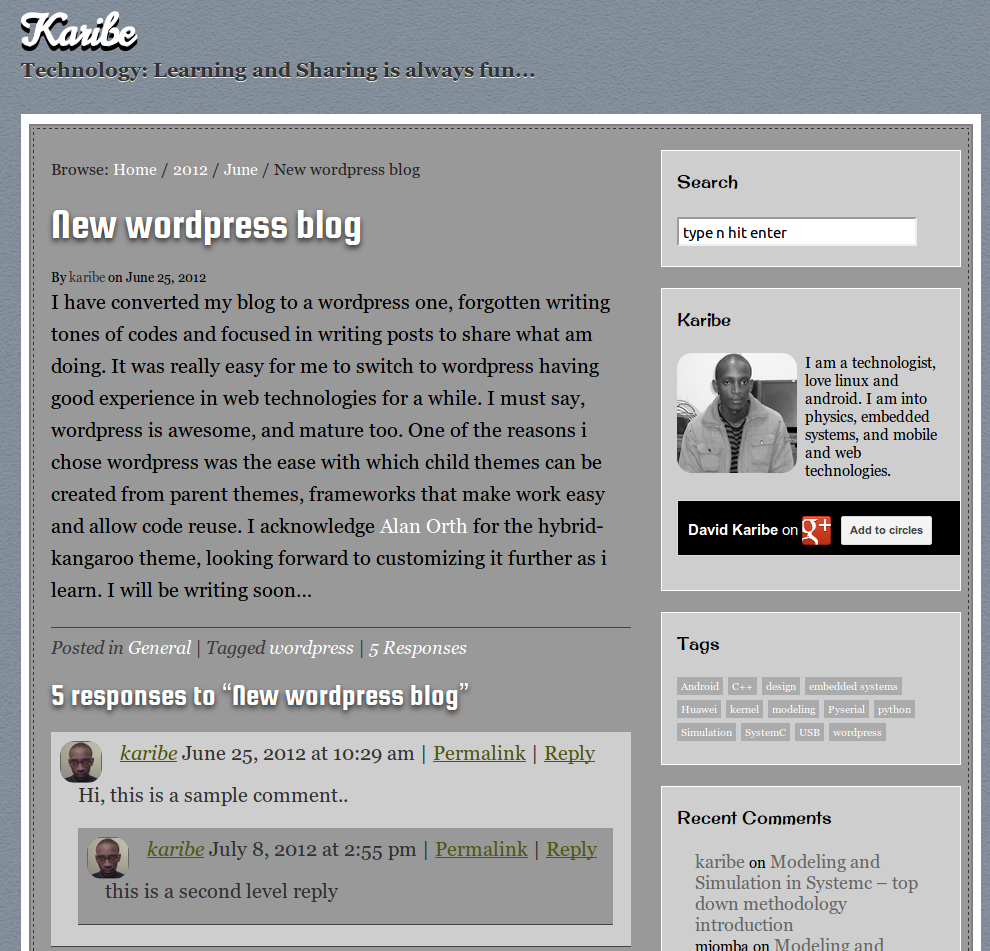
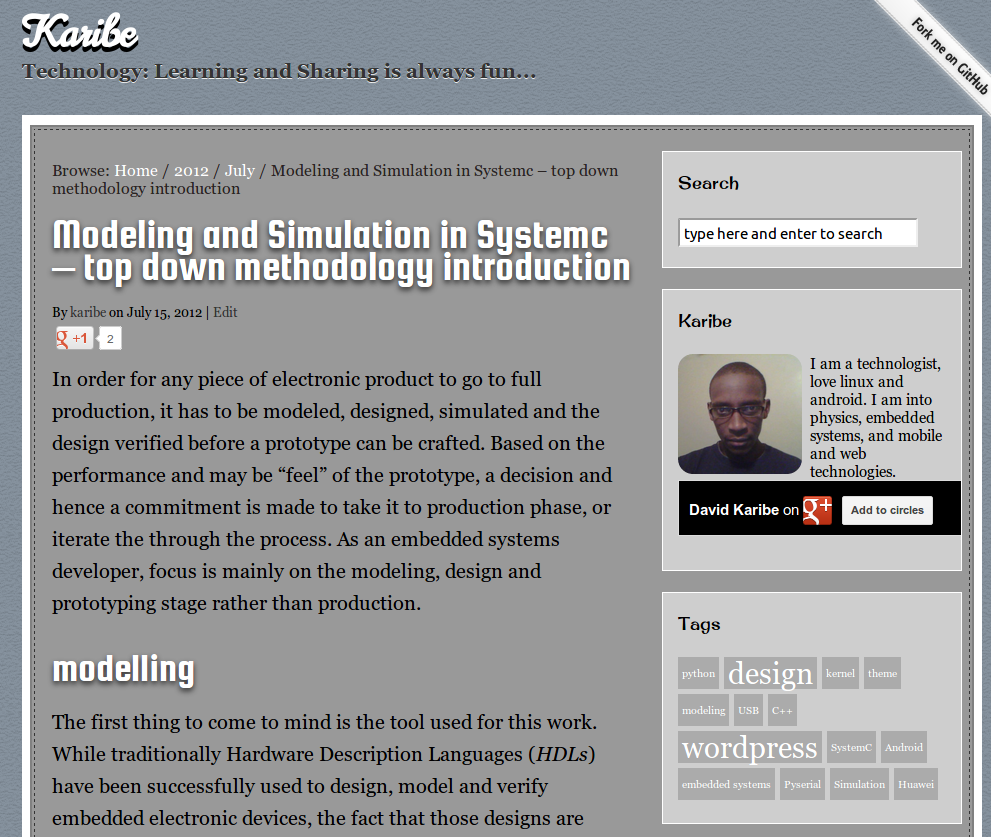
update screenshot,styles, github-ribbon javascript and functions.php to load the javascript

diff --git a/style.css b/style.css
@@ -39,6 +39,7 @@ body {
 	color: #000;
 	font: 20px Georgia, 'Times New Roman', serif;
 	font-size: 15px;
+	lineheight:24px;
 	}
 #body-top{
 	width: 960px;
@@ -118,6 +119,7 @@ a:hover, a:active {
 /* Headers */
 h1 {
 	font-size: 42px;
+	line-height:32px;
 	}
 h2 {
 	font-size: 40px;
@@ -134,7 +136,7 @@ h5 {
 h6 {
 	font-size: 32px;
 	}
-h2, h3, h4, h5, h6, h1 a, h2 a, h3 a, h4 a, h5 a, h6 a{
+h1, h2, h3, h4, h5, h6, h1 a, h2 a, h3 a, h4 a, h5 a, h6 a{
 	font-family:'Squada One', "Helvetica Neue", Arial, Helvetica, sans-serif;
 	color: #fff;
 	text-shadow: 0px 3px 8px #2A2A2A; 
@@ -387,7 +389,7 @@ p.page-links a {
 code {
 	padding: 0 3px;
 	font-family: "Ubuntu Mono", Courier, mono, serif;
-	color: #aaa;
+	color: #fff;
 	}
 pre {
 	overflow-x: hidden !important; overflow: hidden !important; position: relative; z-index: 999;
@@ -574,18 +576,22 @@ h3.widget-title {
 	}
 
 /* Tag cloud */
+.term-cloud {
+	line-height:28px;
+}
 .term-cloud a {
 	display: block;
-	background:rgba(128, 128, 128, 0.43);
+	background: rgba(128, 128, 128, 0.43);/*255,255,255,0.15);*/
 	margin: 0 5px 5px 0;
 	padding: 2px 4px;
 	float: left;
 	text-decoration: none;
+	color:#fff;
 }
 
 .term-cloud a:hover {
 	color: #333;
-	background: rgba(255,255,255,0.15);
+	background:rgba(128, 128, 128, 0.43);	
 }
 /* Widget search */
 .widget-search .search-text {

diff --git a/github-ribbon.js b/github-ribbon.js
@@ -1,0 +1,3 @@
+jQuery(function($) {
+$('<a href="https://github.com/Muriukidavid"><img style="position: fixed; top: 0; right: 0; border: 0;" src="https://s3.amazonaws.com/github/ribbons/forkme_right_white_ffffff.png" alt="Fork me on GitHub"></a>').insertBefore('#header');
+});

diff --git a/functions.php b/functions.php
@@ -1,0 +1,19 @@
+<?php
+/**
+ * Functions File
+ *
+ * This is your child theme's functions.php file.  It is here for adding custom functions and
+ * setting up default functionality for this child theme.  You are free to modify this file in
+ * any way you like.
+ *
+ * @package Hybrid
+ * @subpackage Functions
+ */
+
+function github_ribbon() {
+	if(!is_admin()) {
+		wp_enqueue_script("github-ribbon",get_bloginfo('stylesheet_directory') . '/github-ribbon.js', array('jquery'), 1.0, true);
+	}
+}
+add_action('wp_enqueue_scripts', 'github_ribbon');
+?>
